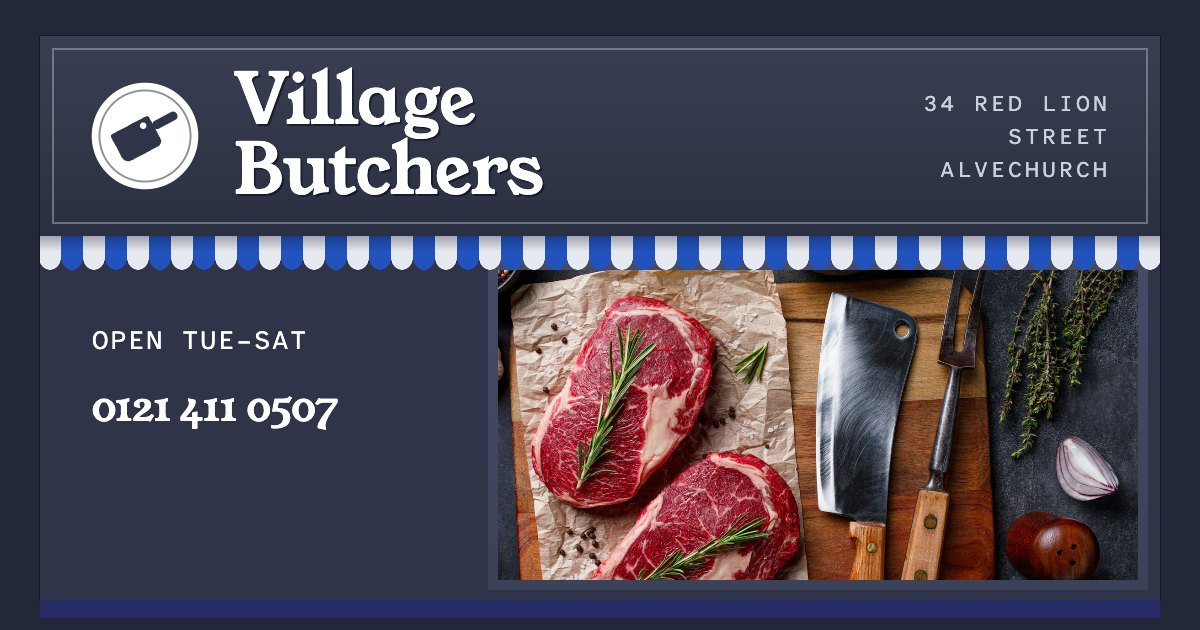
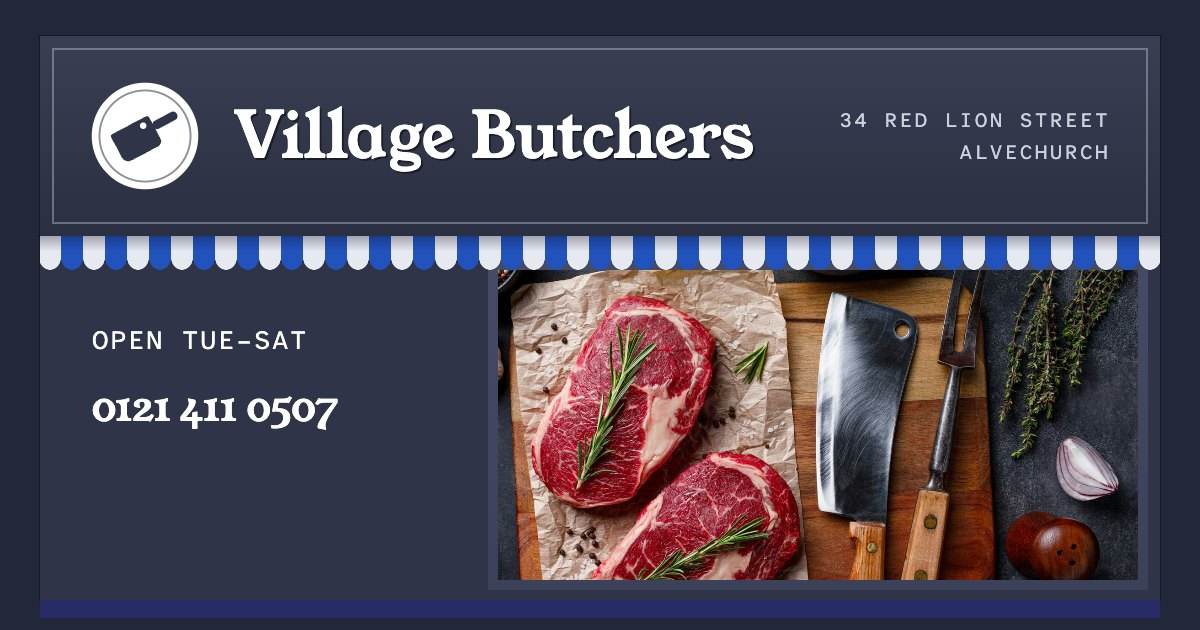
Polish before sending the demo to the client
- Opening hours plate: more breathing room on phones, tighter on 320px.
- Phone map: hide The Square car park pin and label, which fell outside
  the zoomed crop and were cut off.
- Copy: Lashford's line, Scotch eggs and black pudding in the pies text,
  lamb card as plain copy, cleaner pork review excerpt, story sentence,
  Christmas note wording, review intro that won't go out of date.
- Hero window blind starts sooner; share image address on two lines.

Claude-Session: https://claude.ai/code/session_01WV4ivJWvqnCuWA1jCwMWFV

Changed region(s): [[0.185, 0.0905, 0.6475, 0.3317], [0.7708, 0.1508, 0.925, 0.3016], [0.6783, 0.181, 0.7708, 0.2111]]

diff --git a/index.html b/index.html
@@ -27,8 +27,8 @@
   <link rel="preload" href="assets/fonts/young-serif-400.woff2" as="font" type="font/woff2" crossorigin>
   <link rel="preload" href="assets/fonts/atkinson-next-var.woff2" as="font" type="font/woff2" crossorigin>
   <link rel="preload" as="image" href="assets/img/hero/c-counter-1400.webp" imagesrcset="assets/img/hero/c-counter-800.webp 800w, assets/img/hero/c-counter-1400.webp 1400w, assets/img/hero/c-counter-1980.webp 1980w" imagesizes="(min-width: 1216px) 580px, 50vw" type="image/webp" media="(min-width: 860px), (orientation: landscape)">
-  <link rel="stylesheet" href="css/style.css?v=3">
-  <link rel="stylesheet" href="css/motion.css?v=1">
+  <link rel="stylesheet" href="css/style.css?v=4">
+  <link rel="stylesheet" href="css/motion.css?v=2">
   <script src="js/prepaint.js?v=2"></script>
   <script type="application/ld+json">
 {
@@ -191,14 +191,14 @@
               <p class="eyebrow">What&rsquo;s in</p>
               <h2 id="counter-title" class="section__title">On the counter</h2>
             </div>
-            <p class="section__lede">It changes with the day and the season. If you&rsquo;re after something in particular, like a tomahawk for the weekend, give the shop a ring first.</p>
+            <p class="section__lede">It changes with the day and the season. If you&rsquo;re after something in particular, like a tomahawk for the weekend, give the shop a ring or send a message first.</p>
           </div>
           <ul class="board__list" data-reveal-group>
           <li class="board__item board__item--photo" data-photo="sausages">
             <div class="board__text">
             <h3 class="board__name">Sausages</h3>
             <p class="board__what">Homemade, plus Lashford&rsquo;s</p>
-            <p class="board__body">A new homemade flavour every week, such as pork and sweet chilli, cheese and jalape&ntilde;o, or plum and ginger, alongside plain, Cumberland and tomato. This week&rsquo;s flavour goes up on Facebook. Lashford&rsquo;s are made by a Birmingham family of sausage makers going since 1889.</p>
+            <p class="board__body">A new homemade flavour every week, such as pork and sweet chilli, cheese and jalape&ntilde;o, or plum and ginger, alongside plain, Cumberland and tomato. This week&rsquo;s flavour goes up on Facebook. Lashford&rsquo;s are made by a Birmingham family firm that has been making sausages since 1889.</p>
             <figure class="board__quote">
               <blockquote><p>&ldquo;The sausages are 👌&rdquo;</p></blockquote>
               <figcaption>Sylvie D., Google review</figcaption>
@@ -210,7 +210,7 @@
             <div class="board__text">
             <h3 class="board__name">Pies, Scotch eggs &amp; black pudding</h3>
             <p class="board__what">Pork pies, meat pies and more</p>
-            <p class="board__body">Pork pies (the pork and apple is a favourite), steak, chicken and mushroom, and lamb pies.</p>
+            <p class="board__body">Pork pies (the pork and apple is a favourite), steak, chicken and mushroom, and lamb pies, plus Scotch eggs and black pudding.</p>
             <figure class="board__quote">
               <blockquote><p>&ldquo;Nice Pork Pies. Pork and Apple was delicious.&rdquo;</p></blockquote>
               <figcaption>Joe H., Google review</figcaption>
@@ -238,10 +238,7 @@
             <div class="board__text">
             <h3 class="board__name">Lamb</h3>
             <p class="board__what">Southdown lamb, cut how you like it</p>
-            <figure class="board__quote">
-              <blockquote><p>&ldquo;Our own southdown lamb cut to your liking.&rdquo;</p></blockquote>
-              <figcaption>Village Butchers, on Facebook</figcaption>
-            </figure>
+            <p class="board__body">Cut to your liking at the counter.</p>
             </div>
             <picture class="board__photo"><source type="image/webp" srcset="assets/img/board-lamb-280.webp 280w, assets/img/board-lamb-560.webp 560w" sizes="(min-width: 1000px) 150px, (min-width: 600px) 24vw, 84px"><img src="assets/img/board-lamb-280.jpg" srcset="assets/img/board-lamb-280.jpg 280w, assets/img/board-lamb-560.jpg 560w" sizes="(min-width: 1000px) 150px, (min-width: 600px) 24vw, 84px" width="280" height="280" alt="" loading="lazy" decoding="async"></picture>
           </li>
@@ -250,7 +247,7 @@
             <h3 class="board__name">Pork</h3>
             <p class="board__what">Loin chops and more</p>
             <figure class="board__quote">
-              <blockquote><p>&ldquo;I brought pork loin chops last week &amp; they was so tender.&rdquo;</p></blockquote>
+              <blockquote><p>&ldquo;&hellip;pork loin chops&hellip; so tender.&rdquo;</p></blockquote>
               <figcaption>Sylvie D., Google review</figcaption>
             </figure>
             </div>
@@ -259,7 +256,7 @@
           <li class="board__item board__item--photo" data-photo="chicken">
             <div class="board__text">
             <h3 class="board__name">Chicken</h3>
-            <p class="board__what">Fresh, and ready-marinated</p>
+            <p class="board__what">Fresh and ready-marinated</p>
             <figure class="board__quote">
               <blockquote><p>&ldquo;Really enjoyed their chicken selection and homemade sausages!&rdquo;</p></blockquote>
               <figcaption>Michael S., Google review</figcaption>
@@ -277,7 +274,7 @@
           </div>
           <aside class="xmas" aria-labelledby="xmas-title" data-show-until="2026-12-24" data-reveal>
             <h3 id="xmas-title" class="xmas__title">Christmas 2026 orders</h3>
-            <p>Christmas order forms for poultry, meat and pies are coming to the shop. Ask at the counter, or check Facebook for when they&rsquo;re in.</p>
+            <p>Christmas order forms for poultry, meat and pies will be in the shop soon. Ask at the counter, or check Facebook for when they arrive.</p>
           </aside>
         </div>
       </div>
@@ -302,7 +299,7 @@
           <p class="eyebrow">The shop</p>
           <h2 id="story-title" class="section__title">New sign, same blue&nbsp;tiles</h2>
           <p class="story__text">Clayton Fern served Alvechurch for 50 years before retiring from this shop in June 2024, and the village was left without a butcher.</p>
-          <p class="story__text">That August, Steven Fowler opened the doors again as Village Butchers. He started learning butchery at 16 and had 28 years in the trade when he took on the shop, from the traditional cuts and joints to a new sausage every week.</p>
+          <p class="story__text">That August, Steven Fowler opened the doors again as Village Butchers. He started learning butchery at 16 and had 28 years in the trade when he took on the shop. The traditional cuts and joints are still on the counter, alongside a new homemade sausage every week.</p>
           <figure class="story__quote">
             <blockquote><p>&ldquo;The people of the village have all been really welcoming, friendly and very enthusiastic to have a butcher&rsquo;s back in the village.&rdquo;</p></blockquote>
             <figcaption>Steven Fowler, speaking to The Village, September 2024</figcaption>
@@ -318,7 +315,7 @@
           <div>
             <p class="eyebrow">Reviews</p>
             <h2 id="reviews-title" class="section__title">What customers say</h2>
-            <p class="reviews__intro">Every review on Google gives the shop five stars. These are from customers since Steven took over in August 2024.</p>
+            <p class="reviews__intro">What customers have said on Google since Steven took over in August 2024.</p>
           </div>
           <div class="score">
             <p class="score__num" aria-hidden="true" data-count>5.0</p>
@@ -372,7 +369,7 @@
             </figure>
           </li>
           <li class="review review--cta">
-            <p>Five stars from every review on Google.</p>
+            <p>See them all, and leave your own.</p>
             <a href="https://www.google.com/maps/search/?api=1&amp;query=Village%20Butchers%2C%2034%20Red%20Lion%20St%2C%20Alvechurch%2C%20B48%207LF" target="_blank" rel="noopener">Read all the reviews on Google <svg class="icon" aria-hidden="true" viewBox="0 0 24 24"><path d="M15 3h6v6"/><path d="M10 14 21 3"/><path d="M18 13v6a2 2 0 0 1-2 2H5a2 2 0 0 1-2-2V8a2 2 0 0 1 2-2h6"/></svg><span class="visually-hidden"> (opens in a new tab)</span></a>
           </li>
         </ul>
@@ -436,11 +433,11 @@
 <g class="map__street" font-size="17" fill="#48506b" text-anchor="middle"><text dy="6" paint-order="stroke" stroke="#ffffff" stroke-width="4" stroke-linejoin="round"><textPath href="#lbl0" startOffset="50%">Red Lion Street</textPath></text><text dy="6" paint-order="stroke" stroke="#ffffff" stroke-width="4" stroke-linejoin="round"><textPath href="#lbl1" startOffset="50%">Meadow Lane</textPath></text><text dy="6" paint-order="stroke" stroke="#ffffff" stroke-width="4" stroke-linejoin="round"><textPath href="#lbl2" startOffset="50%">Tanyard Lane</textPath></text></g>
 <g class="map__poi" transform="translate(660 430)"><circle r="15" fill="#48506b" stroke="#fff" stroke-width="3"/><path d="M-6 -7h12l-1.5 13h-9z" fill="#fff"/><path d="M-6 -3h12" stroke="#48506b" stroke-width="1.6"/></g>
 <g class="map__poi" transform="translate(675 603)"><circle r="15" fill="#2356c5" stroke="#fff" stroke-width="3"/><text y="6.5" text-anchor="middle" font-size="18" font-weight="700" fill="#fff">P</text></g>
-<g class="map__poi" transform="translate(1087 671)"><circle r="15" fill="#2356c5" stroke="#fff" stroke-width="3"/><text y="6.5" text-anchor="middle" font-size="18" font-weight="700" fill="#fff">P</text></g>
+<g class="map__poi map__far" transform="translate(1087 671)"><circle r="15" fill="#2356c5" stroke="#fff" stroke-width="3"/><text y="6.5" text-anchor="middle" font-size="18" font-weight="700" fill="#fff">P</text></g>
 <g class="map__poi" transform="translate(746 388)"><circle r="15" fill="#48506b" stroke="#fff" stroke-width="3"/><rect x="-7" y="-8" width="14" height="14" rx="3" fill="#fff"/><rect x="-5" y="-6" width="10" height="5" rx="1" fill="#48506b"/><circle cx="-3.5" cy="8" r="1.8" fill="#fff"/><circle cx="3.5" cy="8" r="1.8" fill="#fff"/></g>
 <text class="map__label" x="660" y="474" font-size="19" font-weight="700" fill="#23273a" text-anchor="middle" paint-order="stroke" stroke="#eef1f6" stroke-width="5" stroke-linejoin="round">The Red Lion</text>
 <text class="map__label" x="699" y="609" font-size="19" font-weight="700" fill="#23273a" text-anchor="start" paint-order="stroke" stroke="#eef1f6" stroke-width="5" stroke-linejoin="round">Tanyard Lane car park</text>
-<text class="map__label" x="1063" y="677" font-size="19" font-weight="700" fill="#23273a" text-anchor="end" paint-order="stroke" stroke="#eef1f6" stroke-width="5" stroke-linejoin="round">The Square car park</text>
+<text class="map__label map__far" x="1063" y="677" font-size="19" font-weight="700" fill="#23273a" text-anchor="end" paint-order="stroke" stroke="#eef1f6" stroke-width="5" stroke-linejoin="round">The Square car park</text>
 <text class="map__label" x="722" y="395" font-size="19" font-weight="700" fill="#23273a" text-anchor="end" paint-order="stroke" stroke="#eef1f6" stroke-width="5" stroke-linejoin="round">Bus stop</text>
 <g class="map__shop" transform="translate(800 334)">
   <ellipse class="map__shadow" cx="0" cy="2" rx="16" ry="6" fill="#161927" opacity=".25"/>

diff --git a/css/style.css b/css/style.css
@@ -714,11 +714,15 @@ main:focus { outline: none; }
 .hours__today { display: inline-block; margin-left: .5rem; padding: .05rem .55rem; border-radius: 999px; background: #fff; color: var(--slate-900); font-size: .875rem; font-weight: 700; vertical-align: .1em; }
 html[data-text="xl"] .hours td { white-space: normal; }
 @media (max-width: 479px) {
-  .plate { padding-inline: 1.1rem; }
-  .hours th, .hours td { padding-inline: 0; }
+  .plate { padding-inline: 1.5rem; }
+  .hours th, .hours td { padding-inline: .4rem; }
   .hours__today { display: block; width: fit-content; margin: .3rem 0 0; }
 }
-@media (max-width: 374px) { html[data-text] .hours td { white-space: normal; } }
+@media (max-width: 374px) {
+  .plate { padding-inline: 1.15rem; }
+  .hours th, .hours td { padding-inline: .15rem; }
+  html[data-text] .hours td { white-space: normal; }
+}
 .plate__note { margin-top: 1.25rem; font-size: var(--step--1); color: var(--slate-200); }
 
 /* Map */
@@ -732,6 +736,7 @@ html[data-text="xl"] .hours td { white-space: normal; }
   .map__svg .map__label { font-size: 27px; }
   .map__svg .map__street { font-size: 22px; }
   .map__svg .map__shop text:not(.map__shopname) { font-size: 19px; }
+  .map__svg .map__far { display: none; }
 }
 .map figcaption { padding: .5rem 1.25rem; background: #fff; font-size: var(--step--1); color: var(--ink-muted); display: flex; flex-wrap: wrap; justify-content: space-between; align-items: center; gap: 0 1.5rem; border-top: 1px solid var(--line); }
 .map figcaption a { display: inline-flex; align-items: center; min-height: 44px; }

diff --git a/css/motion.css b/css/motion.css
@@ -23,9 +23,9 @@
   .js .hero-c__title { animation: m-rise 1s var(--m-ease) .25s both; }
   .js .hero-c__where { animation: m-slide-in 1s var(--m-ease) .45s both; }
   .js .hero-c__awning::after { animation: hc-drop .9s var(--m-ease) .55s both; }
-  .js .hero-c__window { animation: m-fade .6s ease .6s both; }
-  .js .hero-c__photo { animation: m-blind 1.3s cubic-bezier(.65, 0, .35, 1) .7s both; }
-  .js .hero-c__photo img { animation: m-settle 2.4s var(--m-ease) .7s both; }
+  .js .hero-c__window { animation: m-fade .5s ease .4s both; }
+  .js .hero-c__photo { animation: m-blind 1.1s cubic-bezier(.65, 0, .35, 1) .45s both; }
+  .js .hero-c__photo img { animation: m-settle 2.4s var(--m-ease) .45s both; }
   .js .hero-c__panel > * { animation: m-rise .9s var(--m-ease) both; }
   .js .hero-c__panel > :nth-child(1) { animation-delay: .8s; }
   .js .hero-c__panel > :nth-child(2) { animation-delay: .9s; }
